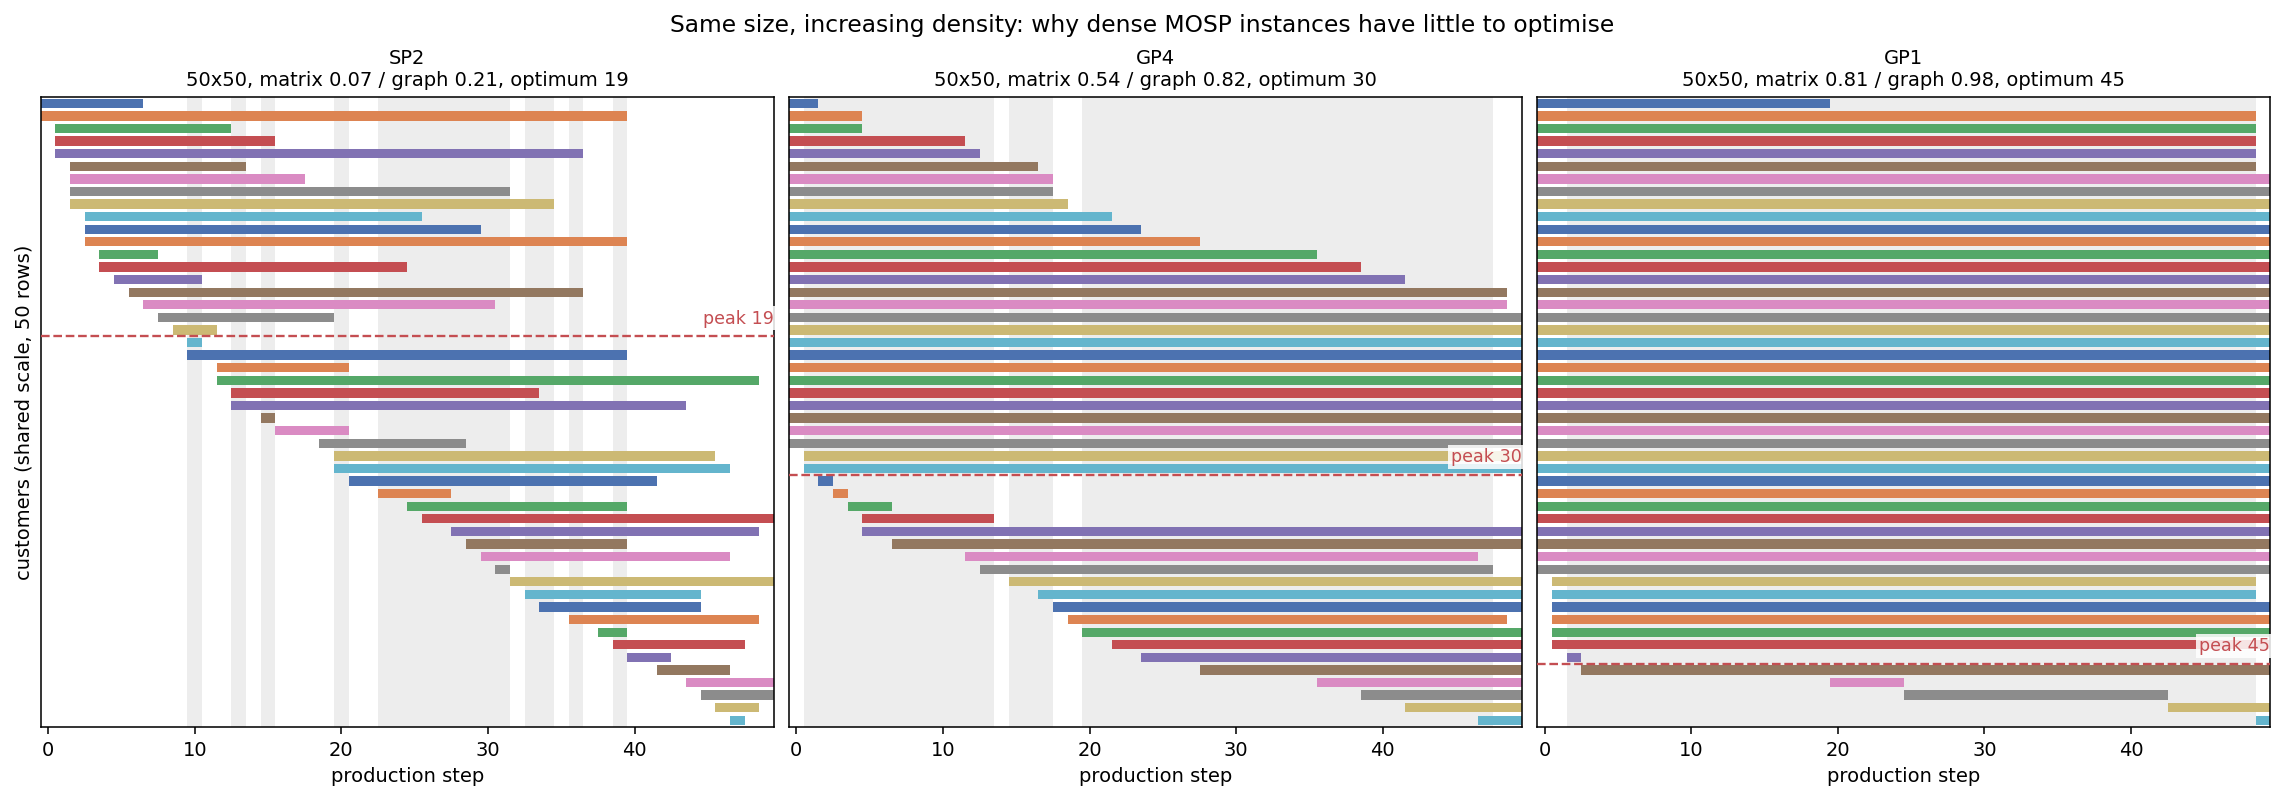
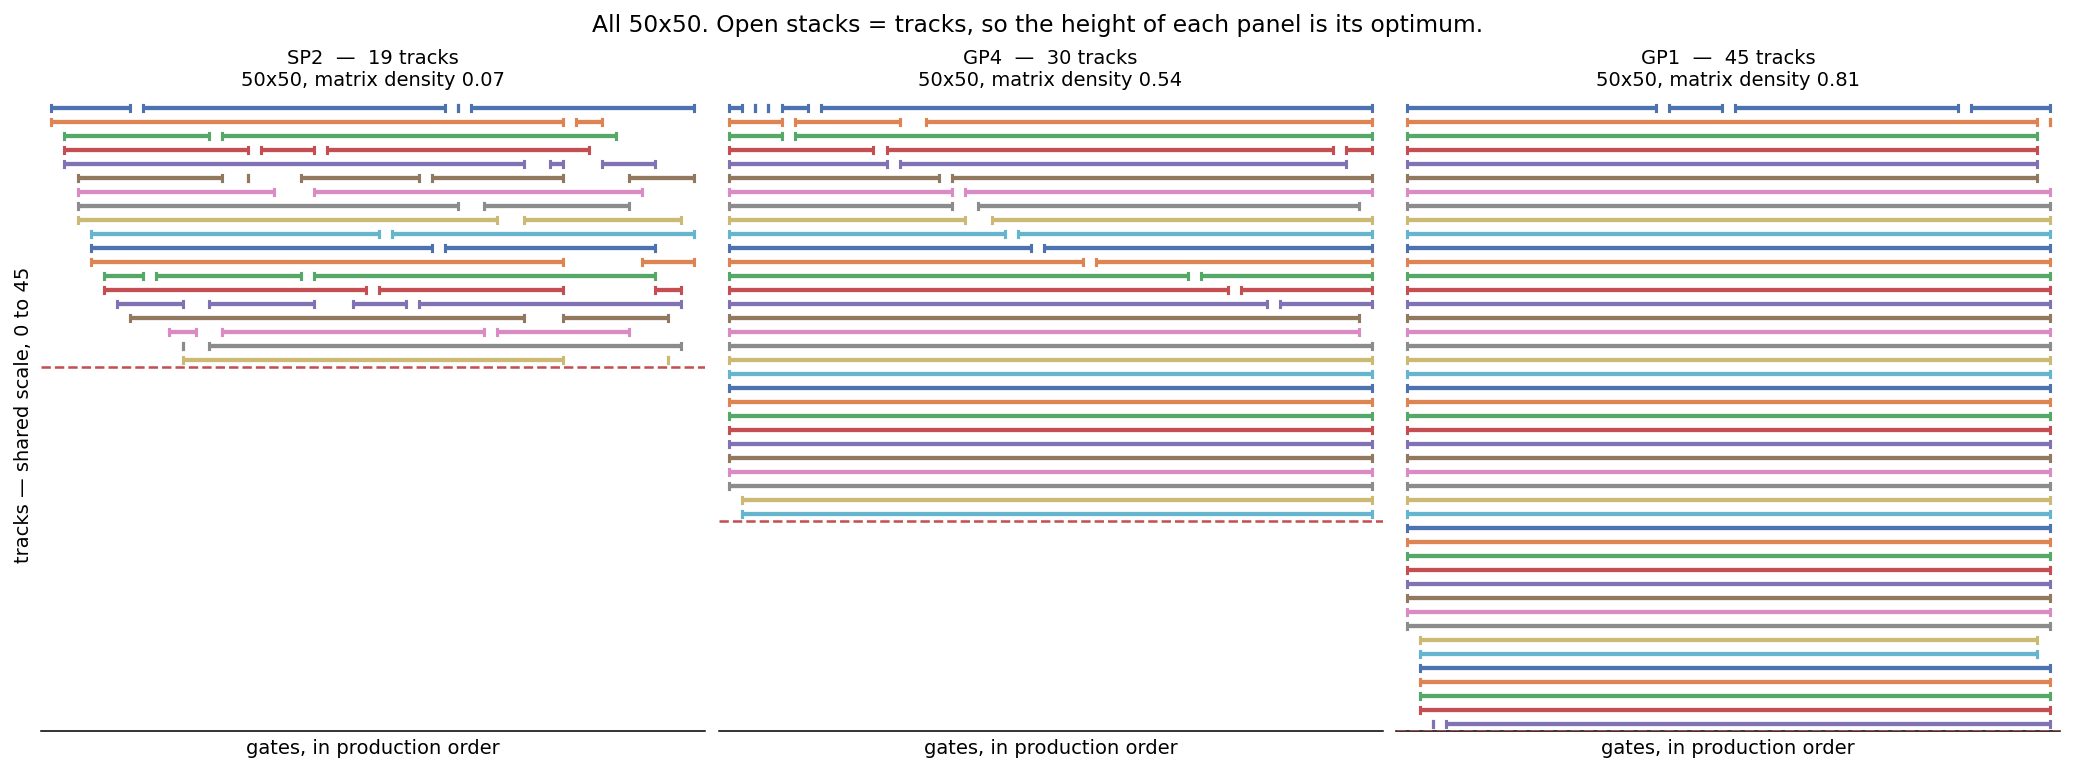
Lead the README with the VLSI framing and the packed layouts
The intro stated the manufacturing problem and went straight to the solver,
leaving the equivalence that makes the pictures meaningful buried in a later
section. It now opens with Linhares & Yanasse's result that MOSP *is* the gate
matrix layout problem -- gates as vertical wires, nets as horizontal ones, and
Proposition 2, that open stacks equal tracks -- and shows a packed circuit, so
the reader can see the objective as the height of a figure before meeting any
encoding.

The density comparison is rebuilt as packed layouts rather than fill-in matrices,
which is both consistent with the section around it and a stronger statement of
the point: on a shared track scale the height each panel fills is its optimum,
and the mechanism is visible -- SP2's nets are short and share tracks, while
GP1's each span the whole circuit so none can share, needing 45 tracks for 50
customers.

That split is what the rest of the project keeps running into: why the clique
bound is tight on dense instances and useless on sparse ones, why contraction
degeneracy exists, and why what remains unsolved is overwhelmingly sparse. Saying
it once with a picture is better than restating it in each section.

diff --git a/mosp/visualize.py b/mosp/visualize.py
@@ -431,6 +431,84 @@ def plot_comparison(
     return fig
 
 
+def plot_track_comparison(
+    entries: Sequence[tuple[MOSPInstance, Sequence[int]]],
+    n_colors: int = 10,
+    labels: Optional[Sequence[str]] = None,
+    suptitle: Optional[str] = None,
+):
+    """Compare packed gate matrix layouts on a shared track scale.
+
+    Each panel is a packed circuit, and every panel is drawn with the same
+    number of track rows on the y axis. Since open stacks equal tracks, the
+    height a panel fills *is* its objective value, so the comparison reads
+    directly: a sparse instance packs short, a dense one fills the frame.
+
+    Returns:
+        A matplotlib Figure.
+    """
+    import matplotlib.pyplot as plt
+
+    palette = PALETTE_5 if n_colors == 5 else PALETTE_10
+    n_panels = len(entries)
+
+    packings = []
+    for instance, ordering in entries:
+        order = list(ordering)
+        position = {pattern: index for index, pattern in enumerate(order)}
+        spans, gate_counts = [], len(order)
+        for customer in range(instance.n_customers):
+            steps = sorted(position[p] for p in instance.customer_patterns(customer)
+                           if p in position)
+            if steps:
+                spans.append((steps[0], steps[-1]))
+        tracks = pack_into_tracks(spans) if spans else []
+        packings.append((spans, tracks, gate_counts,
+                         (max(tracks) + 1) if tracks else 0))
+
+    max_tracks = max(p[3] for p in packings)
+
+    fig, axes = plt.subplots(
+        1, n_panels, figsize=(4.9 * n_panels, 5.4), layout="constrained",
+    )
+    if n_panels == 1:
+        axes = [axes]
+
+    for index, (axis, (instance, _), (spans, tracks, n_gates, n_tracks)) in enumerate(
+            zip(axes, entries, packings)):
+        for (start, stop), track in zip(spans, tracks):
+            colour = palette[track % len(palette)]
+            if stop > start:
+                axis.plot([start, stop], [track, track], color=colour, lw=2.2,
+                          solid_capstyle="butt", zorder=2)
+            for edge in (start, stop):
+                axis.plot([edge, edge], [track - 0.22, track + 0.22],
+                          color=colour, lw=1.6, zorder=2)
+
+        axis.axhline(n_tracks - 0.5, color="#C44E52", lw=1.3, ls="--", zorder=4)
+        axis.set_xlim(-0.8, n_gates - 0.2)
+        axis.set_ylim(max_tracks - 0.5, -0.8)
+        axis.set_yticks([])
+        axis.set_xticks([])
+
+        fill = float(instance.matrix.sum()) / (instance.n_customers
+                                               * instance.n_patterns)
+        caption = labels[index] if labels else (instance.name or "instance")
+        axis.set_title(
+            f"{caption}  —  {n_tracks} tracks\n"
+            f"{instance.n_customers}x{instance.n_patterns}, matrix density {fill:.2f}",
+            fontsize=10,
+        )
+        axis.set_xlabel("gates, in production order")
+        for spine in ("top", "right", "left"):
+            axis.spines[spine].set_visible(False)
+
+    axes[0].set_ylabel(f"tracks — shared scale, 0 to {max_tracks}")
+    if suptitle:
+        fig.suptitle(suptitle, fontsize=12)
+    return fig
+
+
 def load_cached_solution(
     name: str,
     solutions_dir: Path = Path("solutions"),

diff --git a/tests/test_visualize.py b/tests/test_visualize.py
@@ -173,3 +173,22 @@ def test_gate_matrix_figure_renders():
     figure = plot_gate_matrix(inst, [0, 1, 2, 3])
     assert "2 tracks = 2 open stacks" in figure.axes[0].get_title()
     matplotlib.pyplot.close(figure)
+
+
+def test_track_comparison_renders_and_shares_scale():
+    from mosp.visualize import plot_track_comparison
+
+    sparse = MOSPInstance.from_matrix([[1, 1, 0, 0], [0, 0, 1, 1]], name="sparse")
+    dense = MOSPInstance.from_matrix(
+        [[1, 1, 1, 1], [1, 1, 1, 1], [1, 1, 1, 1]], name="dense"
+    )
+    figure = plot_track_comparison(
+        [(sparse, [0, 1, 2, 3]), (dense, [0, 1, 2, 3])], labels=["s", "d"]
+    )
+
+    # Both panels must use the taller instance's scale, or the comparison of
+    # heights — which is the entire point — would be meaningless.
+    assert figure.axes[0].get_ylim() == figure.axes[1].get_ylim()
+    assert "1 tracks" in figure.axes[0].get_title()
+    assert "3 tracks" in figure.axes[1].get_title()
+    matplotlib.pyplot.close(figure)

diff --git a/README.md b/README.md
@@ -6,6 +6,49 @@ Exact solver for the **Minimization of Open Stacks Problem (MOSP)** using a dire
 
 MOSP arises in manufacturing: given a set of customer orders (each requiring some subset of products), find a production sequence that minimizes the maximum number of simultaneously open customer stacks. This problem is NP-hard (Linhares & Yanasse 2002).
 
+## The same problem is a VLSI layout problem
+
+Linhares & Yanasse (2002) show MOSP *is* the **gate matrix layout problem** from
+VLSI design. A gate matrix circuit is a set of gates — vertical wires — carrying
+transistors, with horizontal *nets* joining the gates that share a transistor.
+Permuting the gates does not change the logic, but it changes how many physical
+rows, or **tracks**, the nets need, and tracks are what determine circuit area.
+Their Proposition 2: **the number of open stacks equals the number of tracks.**
+
+So every solution here can be drawn as a packed circuit. Customers become nets,
+patterns become gates in production order, and nets whose stacks never overlap
+share a track:
+
+![SP1 as a packed gate matrix layout](figures/SP1_gatematrix.png)
+
+Nine tracks, so nine open stacks — the answer is the height of the picture. Dots
+are transistors, marking the gates a net actually connects to; a net spanning a
+single gate is a customer needing one pattern, whose stack opens and closes at
+the same step.
+
+### Why some instances are hard and others are not
+
+The same drawing explains why instance density dominates everything about this
+problem. These three are all 50x50, so only density varies:
+
+![Sparse to dense: SP2, GP4, GP1](figures/density_contrast.png)
+
+Same track scale in all three, so the height each fills is its optimum. Sparse
+instances leave slack a sequence can exploit: SP2's nets are short, several share
+a track, and 50 customers pack into 19. Dense ones do not — in GP1 almost every
+net spans the whole circuit, so no two can share a track and 50 customers need
+45. No permutation can help, which is why its optimum is 45 rather than anything
+a better search might find.
+
+That split runs through the whole project. It is why the maximum-clique lower
+bound is exactly tight on the dense instances and useless on the sparse ones, why
+contraction degeneracy is needed for the latter (see [Lower bounds](#lower-bounds)),
+and why the instances still unsolved are overwhelmingly sparse.
+
+(Two quantities get called "density" in this literature: the fill rate of `M`,
+and the edge density of the MOSP graph. The figures report both; Frinhani et
+al.'s tabulated `D` is the second.)
+
 ## Approach
 
 The solver encodes the MOSP decision problem ("can patterns be sequenced with at most k open stacks?") directly as a SAT formula, then uses **binary search** over k to find the exact optimum.
